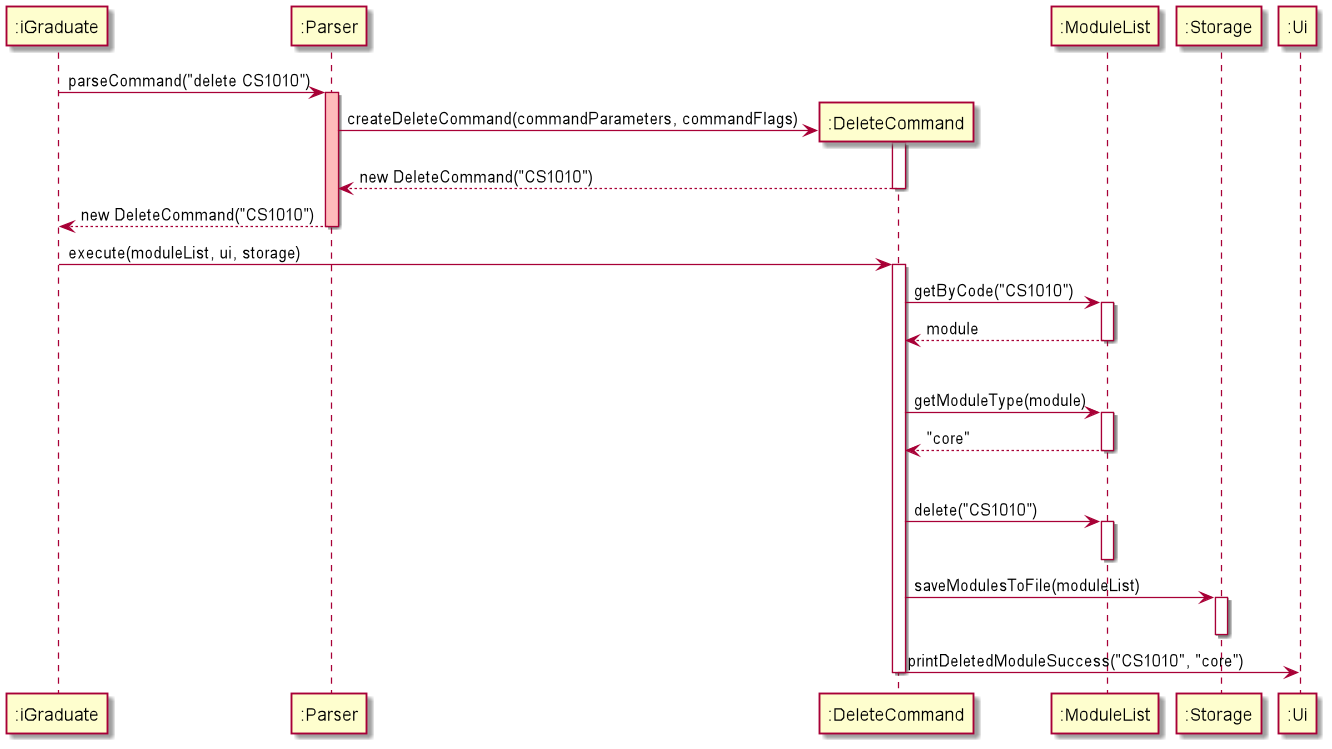
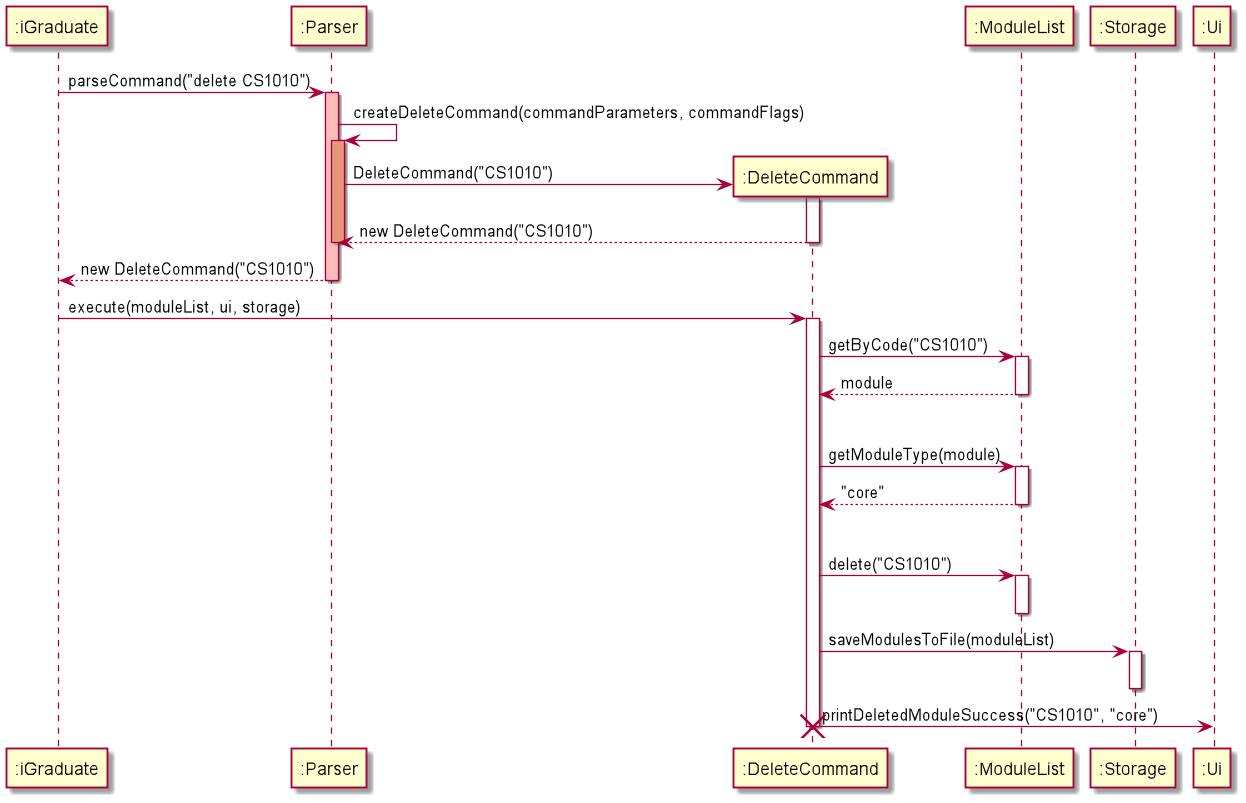
Add sequence diagram for UpdateCommand, fix bugs in other sequence diagrams

diff --git a/docs/DeveloperGuide.md b/docs/DeveloperGuide.md
@@ -513,7 +513,7 @@ The following is the UML diagrams for update command consisting of updating each
 <sup>***Figure 4.3.3.1** Class diagram of `Update` class with user input*</sup>
 
 
-![archi](./images/updateSequenceDiagram.jpg)
+![archi](./images/updateCommandSequenceDiagram.png)
 
 <sup>***Figure 4.3.3.2** Sequence diagram of `Update` class with user input*</sup>
 
